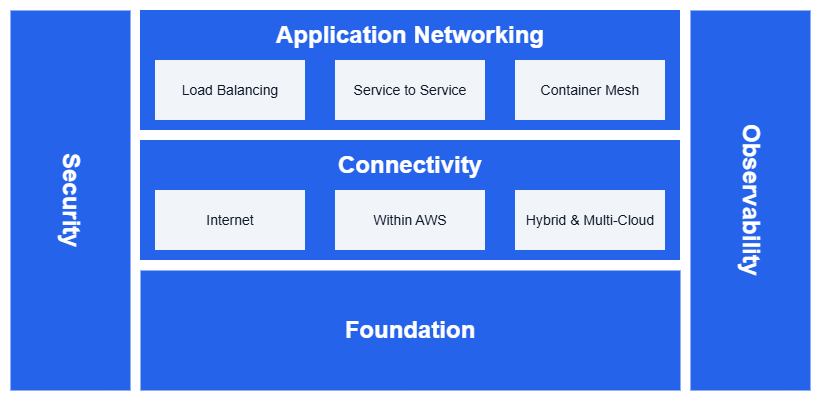
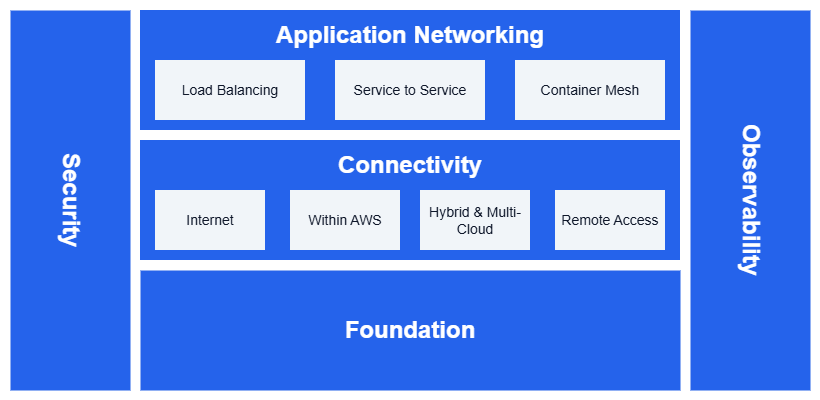
Split Remote Access into its own page under Connectivity
Move Client VPN and Verified Access content out of hybrid-multicloud.md
into a new dedicated page (connectivity/remote-access.md). This content
serves a different audience (identity/security teams vs network
engineering), doesn't depend on hybrid connectivity, and represents a
distinct decision domain.

Changes:
- New page: content/connectivity/remote-access.md with expanded best
  practices for both Client VPN and Verified Access
- hybrid-multicloud.md: Remove Client communication section, update
  opening paragraphs and Building your stack references
- connectivity/index.md: Add section 4 (Remote Access) and grid card,
  update 'how these pages relate' paragraph
- decisions.md: Update 'Learn more' link for remote access row
- mkdocs.yml: Add Remote Access to Connectivity nav
- Updated reference architecture diagram (4 items in Connectivity box)

Changed region(s): [[0.2134, 0.45, 0.8232, 0.63]]

diff --git a/content/connectivity/remote-access.md b/content/connectivity/remote-access.md
@@ -1,0 +1,134 @@
+# Remote Access
+
+!!! info "Prerequisites"
+    This section assumes familiarity with [Amazon VPC](../foundation/vpc.md) and [AWS Organizations](../foundation/organizations.md). Review those topics first if you're new to AWS networking fundamentals.
+
+Giving authorized users and devices access to internal AWS applications is a distinct architectural concern from infrastructure connectivity. AWS provides two services that address it from opposite directions: [AWS Client VPN](https://docs.aws.amazon.com/vpn/latest/clientvpn-user/what-is.html) places the user on the network so they can reach applications by IP, while [AWS Verified Access](https://docs.aws.amazon.com/verified-access/latest/ug/what-is-verified-access.html) places the application behind a zero-trust policy engine that authenticates and authorizes every request based on identity and device posture, with no VPN client involved. Both services work independently of whether your environment has hybrid connectivity — a pure-cloud organization needs remote access just as much as one with Direct Connect circuits.
+
+For new application access use cases, AWS Verified Access is the preferred option. Zero-trust application access scales better across large numbers of applications and users, removes the operational burden of maintaining VPN clients and endpoint certificates, and enforces per-request policies that are hard to replicate at the network layer.
+
+## AWS Client VPN
+
+AWS Client VPN is a managed OpenVPN-compatible service that gives end users a network-level connection into a VPC. Each connected client receives an IP address from a client CIDR you configure, and can reach resources in the associated VPC (and, through transit paths, other VPCs and on-premises networks). Authentication supports Active Directory, SAML-based federation with identity providers such as AWS IAM Identity Center, and certificate-based mutual authentication.
+
+Client VPN fits when applications genuinely need network-layer reachability: administrators using SSH or RDP to reach EC2 instances, developers using tools that require direct IP connectivity, or legacy applications that authenticate clients by IP address. It also fits established workflows where users are already trained on a VPN client and the applications haven't been refactored for identity-aware access.
+
+### AWS Client VPN Best Practices
+
+#### Use split-tunnel by default
+
+Unless a specific compliance requirement justifies full-tunnel, use split-tunnel so only AWS-destined traffic goes through Client VPN and general internet traffic exits the client's local network directly. Full-tunnel multiplies egress cost and concentrates load on the VPN endpoint. Split-tunnel also improves the user experience — latency-sensitive traffic (video calls, streaming) stays on the local internet path.
+
+#### Define authorization rules, not just routes
+
+Client VPN authorization rules control which users can reach which destinations. Route tables alone allow traffic to flow; without matching authorization rules, users can still reach destinations that their role shouldn't access. Design authorization rules around job functions: administrators get SSH/RDP access to management subnets, developers get access to application VPCs, and general users get access only to the specific applications they need.
+
+#### Plan the client CIDR to avoid conflicts
+
+The client CIDR (the IP range assigned to connected VPN clients) must not overlap with the VPC CIDR, any peered VPCs, on-premises networks, or other VPN client pools. Use a dedicated range from your IPAM plan — a `/16` from the `172.16.0.0/12` space is a common choice that avoids conflicts with the `10.0.0.0/8` space typically used for VPCs and on-premises.
+
+#### Scale by endpoint count, not just Availability Zone
+
+A Client VPN endpoint supports many concurrent connections, but sizing should account for peak simultaneous users, not just steady-state. Monitor `ActiveConnectionsCount` and `CrlDaysToExpiry` in CloudWatch. For organizations with thousands of concurrent users, consider multiple endpoints segmented by user population or application group.
+
+## AWS Verified Access
+
+AWS Verified Access provides zero-trust access to corporate applications without a VPN client. Users reach an application through a browser or an application-specific client, and Verified Access evaluates every request against a policy that combines identity (from AWS IAM Identity Center or a third-party identity provider) and device posture (from an integrated device-trust provider such as CrowdStrike or a mobile-device-management vendor). Requests that don't satisfy the policy are rejected. Requests that satisfy it are forwarded to the application.
+
+Verified Access supports both web-based applications (HTTP/HTTPS) and non-web applications reached over TCP, SSH, or RDP, so it covers most of the use cases that previously required Client VPN. The policies are centrally managed in AWS, expressed in Cedar policy language, and evaluated per-request, which gives you fine-grained control that network-layer access can't provide (for example, blocking access when a device's posture check fails even though the user is authenticated).
+
+### AWS Verified Access Best Practices
+
+#### Start with Verified Access for every new application access use case
+
+For new application access use cases, AWS Verified Access is the preferred option because:
+
+* **No VPN client to deploy, distribute, or maintain on endpoints.** Users reach applications through standard clients they already use (browsers or protocol-specific clients).
+* **Per-request policy evaluation** with identity and device posture, instead of the all-or-nothing trust model of a network connection.
+* **Comprehensive logging** of every access attempt (allow and deny), with reason, user, and device context. This is harder to reconstruct from VPN connection logs plus application logs separately.
+* **Simpler operational model** at scale. Onboarding a new application means adding a Verified Access endpoint and a policy, rather than expanding VPN authorization rules and re-propagating routes.
+
+#### Integrate device trust from day one
+
+Verified Access policies are most valuable when they combine identity *and* device posture. Connect a device-trust provider (CrowdStrike, Jamf, or another MDM/EDR vendor) at deployment time, not as a later enhancement. A policy that only checks identity is little better than a traditional SSO check; adding device posture (Is the OS patched? Is disk encryption enabled? Is the EDR agent running?) is what makes Verified Access genuinely zero-trust.
+
+#### Use Cedar policies for fine-grained, auditable access control
+
+Cedar, the policy language Verified Access uses, supports conditions on user attributes, group membership, device posture signals, and request attributes (IP, time, application). Write explicit policies per application rather than broad "allow all authenticated users" rules. Fine-grained policies are easier to audit, easier to explain to compliance teams, and reduce the blast radius of a compromised credential.
+
+#### Migrate from Client VPN incrementally
+
+Where Verified Access doesn't fit today, Client VPN remains available, and the two can coexist during migration. The recommended pattern:
+
+1. Deploy Verified Access for new applications from day one
+2. Migrate existing applications to Verified Access as their lifecycle allows (typically during the next major update or security review)
+3. Gradually reduce Client VPN scope to the cases that genuinely require network-layer access (SSH, RDP, legacy protocols)
+4. Consolidate on Verified Access over time as the application portfolio modernizes
+
+The [Client VPN and Verified Access interoperability patterns](https://aws.amazon.com/blogs/networking-and-content-delivery/aws-client-vpn-and-aws-verified-access-migration-and-interoperability-patterns/) cover these migration paths in detail.
+
+## When to use each service
+
+**AWS Verified Access** is the right choice when:
+
+* Users need access to web applications (HTTP/HTTPS) or TCP/SSH/RDP services
+* You want per-request identity and device posture evaluation
+* You want to eliminate VPN client deployment and maintenance
+* You're onboarding new applications to remote access
+
+**AWS Client VPN** is the right choice when:
+
+* Applications require full network-layer IP reachability (not just application-level access)
+* Users need access to broad network ranges rather than specific applications
+* Legacy protocols or workflows depend on the user having a routable IP inside the VPC
+* The organization has established VPN-based workflows that haven't been migrated yet
+
+AWS Client VPN is **not** the long-term answer for application access. For any new application, start with Verified Access and use Client VPN only for the genuine network-layer cases.
+
+## Documentation
+
+<div class="grid cards" markdown>
+
+*   :material-file-document: **AWS Client VPN documentation**
+
+    ---
+
+    Complete service documentation covering endpoints, authentication methods, authorization rules, and split-tunnel configuration.
+
+    [:octicons-arrow-right-24: Documentation](https://docs.aws.amazon.com/vpn/latest/clientvpn-user/what-is.html)
+
+*   :material-file-document-outline: **AWS Verified Access documentation**
+
+    ---
+
+    Complete service documentation covering endpoints, policies in Cedar, identity and device trust providers, and supported application types.
+
+    [:octicons-arrow-right-24: Documentation](https://docs.aws.amazon.com/verified-access/latest/ug/what-is-verified-access.html)
+
+*   :material-post: **AWS Client VPN and Verified Access interoperability patterns**
+
+    ---
+
+    Four migration and interoperability patterns for running Client VPN and Verified Access side by side during a transition.
+
+    [:octicons-arrow-right-24: Blog post](https://aws.amazon.com/blogs/networking-and-content-delivery/aws-client-vpn-and-aws-verified-access-migration-and-interoperability-patterns/)
+
+*   :material-currency-usd: **AWS Verified Access pricing**
+
+    ---
+
+    Per-application-hour and per-GB data processing charges for Verified Access endpoints.
+
+    [:octicons-arrow-right-24: Pricing](https://aws.amazon.com/verified-access/pricing/)
+
+</div>
+
+## Related pages
+
+**Relationship to other Connectivity topics:**
+
+* **[Hybrid & Multi-Cloud Connectivity](hybrid-multicloud.md)** — Hybrid connectivity provides the infrastructure-level path between on-premises and AWS. Remote access provides the user-level path to applications. The two are independent: Verified Access and Client VPN work without any hybrid connectivity in place.
+
+**Relationship to Security topics:**
+
+* **[Network Segmentation](../security/segmentation.md)** — Verified Access auth policies provide identity-based segmentation at the application boundary. Client VPN authorization rules provide network-level segmentation for VPN users.

diff --git a/content/connectivity/hybrid-multicloud.md b/content/connectivity/hybrid-multicloud.md
@@ -3,7 +3,7 @@
 !!! info "Prerequisites"
     This section assumes familiarity with [Amazon VPC](../foundation/vpc.md), [CIDR Planning](../foundation/cidr.md), [AWS Organizations](../foundation/organizations.md), and the [Within AWS connectivity](within-aws.md) services (AWS Transit Gateway and AWS Cloud WAN in particular). Review those topics first if you're new to AWS networking fundamentals.
 
-Connecting AWS to networks outside AWS covers three distinct concerns, and the right answer is rarely a single service. **Hybrid connectivity** brings on-premises data centers and branch offices to AWS through private circuits, encrypted VPN, or SD-WAN overlays. **Multi-cloud connectivity** connects AWS to other public clouds for workloads that span providers. **Client communication to AWS applications** gives users and devices access to specific applications from wherever they are.
+Connecting AWS to networks outside AWS covers two distinct concerns, and the right answer is rarely a single service. **Hybrid connectivity** brings on-premises data centers and branch offices to AWS through private circuits, encrypted VPN, or SD-WAN overlays. **Multi-cloud connectivity** connects AWS to other public clouds for workloads that span providers.
 
 ![Hybrid and multi-cloud overview showing three concerns: Hybrid Connectivity (Direct Connect, VPN, SD-WAN), Multi-Cloud Connectivity (AWS Interconnect, Partner-based), and Client Communication (Client VPN, Verified Access)](../assets/connectivity/hybrid-overview.png)
 /// caption
@@ -13,8 +13,6 @@ Hybrid and multi-cloud overview — [Drawio Source](../assets/connectivity/hybri
 For on-premises connectivity, [AWS Direct Connect](https://aws.amazon.com/directconnect/) delivers private, predictable bandwidth over dedicated circuits and is the foundation for most production hybrid deployments. [AWS Site-to-Site VPN](https://aws.amazon.com/vpn/site-to-site-vpn/) provides encrypted connectivity over the internet, useful when private circuits are not needed or as a complement to Direct Connect for layer-3 encryption. **SD-WAN integration** uses Transit Gateway Connect or AWS Cloud WAN Connect attachments to bring third-party SD-WAN overlays into the AWS network plane.
 
 For multi-cloud, [AWS Interconnect](https://docs.aws.amazon.com/interconnect/latest/userguide/what-is-interconnect.html) is the recommended option: a managed service that creates a direct, private connection between your AWS VPCs and another cloud provider's networks without requiring cross-connects at a colocation, partner coordination, or manual router configuration. The established alternatives (partner-based Direct Connect cross-connects, or Site-to-Site VPN between clouds) remain valid where AWS Interconnect doesn't yet cover your Region pair or cloud pair, but they carry more operational overhead.
-
-For users reaching AWS applications, [AWS Client VPN](https://aws.amazon.com/vpn/client-vpn/) provides network-level access into VPCs when applications need traditional IP reachability. [AWS Verified Access](https://aws.amazon.com/verified-access/) provides zero-trust application-level access with identity and device posture checks on every request, and is the preferred option for new application access use cases because it typically removes the need for a VPN client entirely.
 
 Most organizations use more than one of these services simultaneously. The goal is to use each where it provides the most value. For the recommended architecture combining these services, see [Building your hybrid and multi-cloud stack](#building-your-hybrid-and-multi-cloud-stack) at the end of this page.
 
@@ -560,69 +558,6 @@ Use this when AWS Interconnect isn't available and the workload can tolerate int
 
 </div>
 
-## Client communication to AWS applications
-
-Users and devices reaching AWS applications over the internet have two AWS-native options. [AWS Client VPN](https://docs.aws.amazon.com/vpn/latest/clientvpn-user/what-is.html) brings clients into a VPC at the network layer, so the applications they reach look as if they're on a local network. [AWS Verified Access](https://docs.aws.amazon.com/verified-access/latest/ug/what-is-verified-access.html) takes the opposite approach: instead of putting the user on the network, it puts the application behind a zero-trust policy engine that authenticates and authorizes every request based on identity and device posture, with no VPN client involved.
-
-Both services have a place, but the recommendation for new application access use cases is to start with AWS Verified Access. Zero-trust application access scales better across large numbers of applications and users, removes the operational burden of maintaining VPN clients and endpoint certificates, and enforces per-request policies that are hard to replicate at the network layer.
-
-### AWS Client VPN
-
-AWS Client VPN is a managed OpenVPN-compatible service that gives end users a network-level connection into a VPC. Each connected client receives an IP address from a client CIDR you configure, and can reach resources in the associated VPC (and, through transit paths, other VPCs and on-premises networks). Authentication supports Active Directory, SAML-based federation with identity providers such as AWS IAM Identity Center, and certificate-based mutual authentication.
-
-Client VPN fits when applications genuinely need network-layer reachability: administrators using SSH or RDP to reach EC2 instances, developers using tools that require direct IP connectivity, or legacy applications that authenticate clients by IP address. It also fits established workflows where users are already trained on a VPN client and the applications haven't been refactored for identity-aware access.
-
-Operational considerations:
-
-* **Split-tunnel by default**. Unless a specific compliance requirement justifies full-tunnel, use split-tunnel so only AWS-destined traffic goes through Client VPN and general internet traffic exits the client's local network directly. Full-tunnel multiplies egress cost and concentrates load on the VPN endpoint.
-* **Authorization rules, not route tables alone**. Client VPN authorization rules control which users can reach which destinations. Route tables alone allow traffic to flow; without matching authorization rules, users can still be blocked from destinations that their role shouldn't reach.
-* **Scale by endpoint, not by Availability Zone alone**. A Client VPN endpoint supports many concurrent connections, but sizing should account for peak simultaneous users, not just steady-state.
-
-### AWS Verified Access
-
-AWS Verified Access provides zero-trust access to corporate applications without a VPN client. Users reach an application through a browser or an application-specific client, and Verified Access evaluates every request against a policy that combines identity (from AWS IAM Identity Center or a third-party identity provider) and device posture (from an integrated device-trust provider such as CrowdStrike or a mobile-device-management vendor). Requests that don't satisfy the policy are rejected. Requests that satisfy it are forwarded to the application.
-
-Verified Access supports both web-based applications (HTTP/HTTPS) and non-web applications reached over TCP, SSH, or RDP, so it covers most of the use cases that previously required Client VPN. The policies are centrally managed in AWS, expressed in Cedar policy language, and evaluated per-request, which gives you fine-grained control that network-layer access can't provide (for example, blocking access when a device's posture check fails even though the user is authenticated).
-
-For new application access use cases, AWS Verified Access is the preferred option because:
-
-* **No VPN client to deploy, distribute, or maintain on endpoints.** Users reach applications through standard clients they already use (browsers or protocol-specific clients).
-* **Per-request policy evaluation** with identity and device posture, instead of the all-or-nothing trust model of a network connection.
-* **Comprehensive logging** of every access attempt (allow and deny), with reason, user, and device context. This is harder to reconstruct from VPN connection logs plus application logs separately.
-* **Simpler operational model** at scale. Onboarding a new application means adding a Verified Access endpoint and a policy, rather than expanding VPN authorization rules and re-propagating routes.
-
-Where Verified Access doesn't fit today, Client VPN remains available, and the two can coexist during migration. The [Client VPN and Verified Access interoperability patterns](https://aws.amazon.com/blogs/networking-and-content-delivery/aws-client-vpn-and-aws-verified-access-migration-and-interoperability-patterns/) cover starting with Client VPN, adding Verified Access for new applications, migrating existing applications to Verified Access, and consolidating on Verified Access over time.
-
-### Documentation
-
-<div class="grid cards" markdown>
-
-*   :material-file-document: **AWS Client VPN documentation**
-
-    ---
-
-    Complete service documentation covering endpoints, authentication methods, authorization rules, and split-tunnel configuration.
-
-    [:octicons-arrow-right-24: Documentation](https://docs.aws.amazon.com/vpn/latest/clientvpn-user/what-is.html)
-
-*   :material-file-document-outline: **AWS Verified Access documentation**
-
-    ---
-
-    Complete service documentation covering endpoints, policies in Cedar, identity and device trust providers, and supported application types.
-
-    [:octicons-arrow-right-24: Documentation](https://docs.aws.amazon.com/verified-access/latest/ug/what-is-verified-access.html)
-
-*   :material-post: **AWS Client VPN and Verified Access interoperability patterns**
-
-    ---
-
-    Four migration and interoperability patterns for running Client VPN and Verified Access side by side during a transition.
-
-    [:octicons-arrow-right-24: Blog post](https://aws.amazon.com/blogs/networking-and-content-delivery/aws-client-vpn-and-aws-verified-access-migration-and-interoperability-patterns/)
-
-</div>
-
 ## Building your hybrid and multi-cloud stack
 
 Real-world hybrid and multi-cloud architectures combine several of these services, with each one operating at the layer where it provides the most value.
@@ -642,7 +577,7 @@ Organizations building hybrid and multi-cloud connectivity from scratch have the
 2. **VPN where it adds value**: AWS Site-to-Site VPN on the same Transit Gateway or AWS Cloud WAN for fast-start sites that don't yet have Direct Connect, short-lived connectivity, or as an IPsec overlay on top of Direct Connect when MACsec is not available.
 3. **Multi-cloud**: AWS Interconnect where supported, sharing the same Direct Connect Gateway as the on-premises Direct Connect. Partner-based Direct Connect or Site-to-Site VPN between clouds only where AWS Interconnect coverage isn't there yet.
 4. **SD-WAN integration**: Transit Gateway Connect or AWS Cloud WAN Connect attachments if the organization already runs SD-WAN across branches and wants that overlay to extend into AWS.
-5. **Application access**: AWS Verified Access for new applications. AWS Client VPN only where protocol or workflow requirements genuinely need network-layer access.
+5. **Application access**: See [Remote Access](remote-access.md) for AWS Verified Access and AWS Client VPN guidance.
 
 ### Existing environments
 
@@ -652,4 +587,4 @@ Organizations running established hybrid patterns have working foundations that 
 2. **AWS Site-to-Site VPN** remains fully supported. Consider Large tunnels for high-throughput sites and Accelerated VPN for sites distant from the Region.
 3. **Partner-based Direct Connect to another cloud** keeps working and should not be ripped out for its own sake. Evaluate AWS Interconnect for new multi-cloud pairs or when existing cross-connects come up for renewal.
 4. **SD-WAN integrations** on Transit Gateway Connect can migrate incrementally to AWS Cloud WAN when multi-Region management complexity grows; AWS Cloud WAN peers with existing Transit Gateways, so SD-WAN traffic doesn't have to move all at once.
-5. **AWS Client VPN** can coexist with AWS Verified Access during migration. The recommended direction is to add new applications to Verified Access, migrate existing applications as their lifecycle allows, and gradually reduce Client VPN usage to the cases that genuinely require network-layer access.
+5. **AWS Client VPN** can coexist with AWS Verified Access during migration. See [Remote Access](remote-access.md) for the recommended migration path.

diff --git a/content/connectivity/index.md b/content/connectivity/index.md
@@ -4,7 +4,7 @@ This section covers how AWS resources communicate with the internet, with each o
 
 The connectivity patterns you choose shape cost, latency, security boundaries, and operational ownership across your entire AWS environment. Most organizations use more than one connectivity service simultaneously, with each operating at the layer where it provides the most value.
 
-**How these pages relate:** Internet Connectivity covers your external boundary (how traffic enters and leaves AWS). Within AWS covers internal routing and service communication between VPCs and accounts. Hybrid & Multi-Cloud covers connections to networks outside AWS — on-premises data centers, other cloud providers, and remote users. Most architectures touch all three pages: internet for public-facing workloads, within-AWS for the backbone between them, and hybrid for the on-premises and multi-cloud leg.
+**How these pages relate:** Internet Connectivity covers your external boundary (how traffic enters and leaves AWS). Within AWS covers internal routing and service communication between VPCs and accounts. Hybrid & Multi-Cloud covers connections to networks outside AWS — on-premises data centers and other cloud providers. Remote Access covers how authorized users and devices reach internal applications. Most architectures touch all four pages: internet for public-facing workloads, within-AWS for the backbone between them, hybrid for the on-premises and multi-cloud leg, and remote access for workforce connectivity.
 
 !!! tip "VPC Lattice coverage"
     Amazon VPC Lattice appears in two places by design. The [Within AWS](within-aws.md) page covers VPC Lattice from the connectivity and network-team perspective: service networks, association models, and how VPC Lattice fits the connectivity stack. The [Application Networking → Service to Service](../application-networking/service-to-service.md) page covers VPC Lattice from the application-team perspective: service discovery, auth policies, traffic management, and deployment patterns.
@@ -38,7 +38,7 @@ The connectivity patterns you choose shape cost, latency, security boundaries, a
 
 ## 3. Hybrid and Multi-Cloud Connectivity
 
-**Hybrid and multi-cloud connectivity** covers three distinct concerns: connecting on-premises data centers and branch offices to AWS (hybrid), connecting AWS to other public clouds (multi-cloud), and giving users and devices access to specific AWS applications (client communication).
+**Hybrid and multi-cloud connectivity** covers two distinct concerns: connecting on-premises data centers and branch offices to AWS (hybrid) and connecting AWS to other public clouds (multi-cloud).
 
 **Key services:**
 
@@ -46,10 +46,19 @@ The connectivity patterns you choose shape cost, latency, security boundaries, a
 *   **AWS Site-to-Site VPN** — Encrypted IPsec connectivity over the internet; fastest way to establish hybrid connectivity
 *   **SD-WAN integration** — Transit Gateway Connect or AWS Cloud WAN Connect attachments for existing SD-WAN overlays
 *   **AWS Interconnect** — Managed direct cloud-to-cloud connections (currently AWS ↔ Google Cloud, expanding)
-*   **AWS Client VPN** — Network-level user access into VPCs
-*   **AWS Verified Access** — Zero-trust application-level access (preferred for new application access use cases)
 
-***Key insight:*** *Most organizations use more than one of these services simultaneously. Direct Connect for the primary private path, VPN for fast-start or encryption overlay, and Verified Access for application access.*
+***Key insight:*** *Most organizations use more than one of these services simultaneously. Direct Connect for the primary private path, VPN for fast-start or encryption overlay, and SD-WAN Connect for existing branch overlays.*
+
+## 4. Remote Access
+
+**Remote access** addresses how authorized users and devices reach internal AWS applications. This is a distinct decision domain from infrastructure connectivity — it serves identity and security teams rather than network engineering, and works independently of whether your environment has hybrid connectivity.
+
+**Key services:**
+
+*   **AWS Verified Access** — Zero-trust application-level access with per-request identity and device posture evaluation; the preferred option for new use cases
+*   **AWS Client VPN** — Network-level user access into VPCs for cases that genuinely require IP reachability
+
+***Key insight:*** *Start with AWS Verified Access for every new application access use case. Use Client VPN only when the application genuinely requires the user to have a routable IP inside the VPC.*
 
 ---
 
@@ -77,8 +86,16 @@ The connectivity patterns you choose shape cost, latency, security boundaries, a
 
     ---
 
-    Direct Connect, Site-to-Site VPN, SD-WAN, AWS Interconnect, Client VPN, and Verified Access.
+    Direct Connect, Site-to-Site VPN, SD-WAN, and AWS Interconnect for on-premises and multi-cloud infrastructure connectivity.
 
     [:octicons-arrow-right-24: Hybrid & Multi-Cloud Connectivity](hybrid-multicloud.md)
+
+*   :material-account-lock: **Remote Access**
+
+    ---
+
+    AWS Verified Access for zero-trust application access and AWS Client VPN for network-level user connectivity.
+
+    [:octicons-arrow-right-24: Remote Access](remote-access.md)
 
 </div>

diff --git a/content/decisions.md b/content/decisions.md
@@ -31,7 +31,7 @@ This page maps common AWS networking questions to the right service, pattern, an
 | Encrypted connectivity to on-premises with no wait times | **AWS Site-to-Site VPN** — IPsec over internet, up in minutes, up to 5 Gbps per Large tunnel | Internet-based: latency and throughput are unpredictable. Not a substitute for Direct Connect for production hybrid | [Hybrid & Multi-Cloud](connectivity/hybrid-multicloud.md) |
 | Connect AWS to Google Cloud privately | **AWS Interconnect** — managed direct cloud-to-cloud, MACsec encrypted, minutes to provision | Currently supports AWS ↔ Google Cloud only; expanding. Use partner-based Direct Connect for unsupported pairs | [Hybrid & Multi-Cloud](connectivity/hybrid-multicloud.md) |
 | Integrate existing SD-WAN with AWS | **Transit Gateway Connect or Cloud WAN Tunnel-less Connect** — GRE/Tunnel-less attachments with BGP | Requires SD-WAN virtual appliances in a transit VPC (or on-prem with DX underlay for TGW Connect) | [Hybrid & Multi-Cloud](connectivity/hybrid-multicloud.md) |
-| Give remote users access to applications | **AWS Verified Access** (preferred) — zero-trust, per-request identity + device posture, no VPN client | Use Client VPN only when applications genuinely need network-layer IP reachability (SSH, RDP, legacy protocols) | [Hybrid & Multi-Cloud](connectivity/hybrid-multicloud.md) |
+| Give remote users access to applications | **AWS Verified Access** (preferred) — zero-trust, per-request identity + device posture, no VPN client | Use Client VPN only when applications genuinely need network-layer IP reachability (SSH, RDP, legacy protocols) | [Remote Access](connectivity/remote-access.md) |
 
 ## Securing network traffic
 